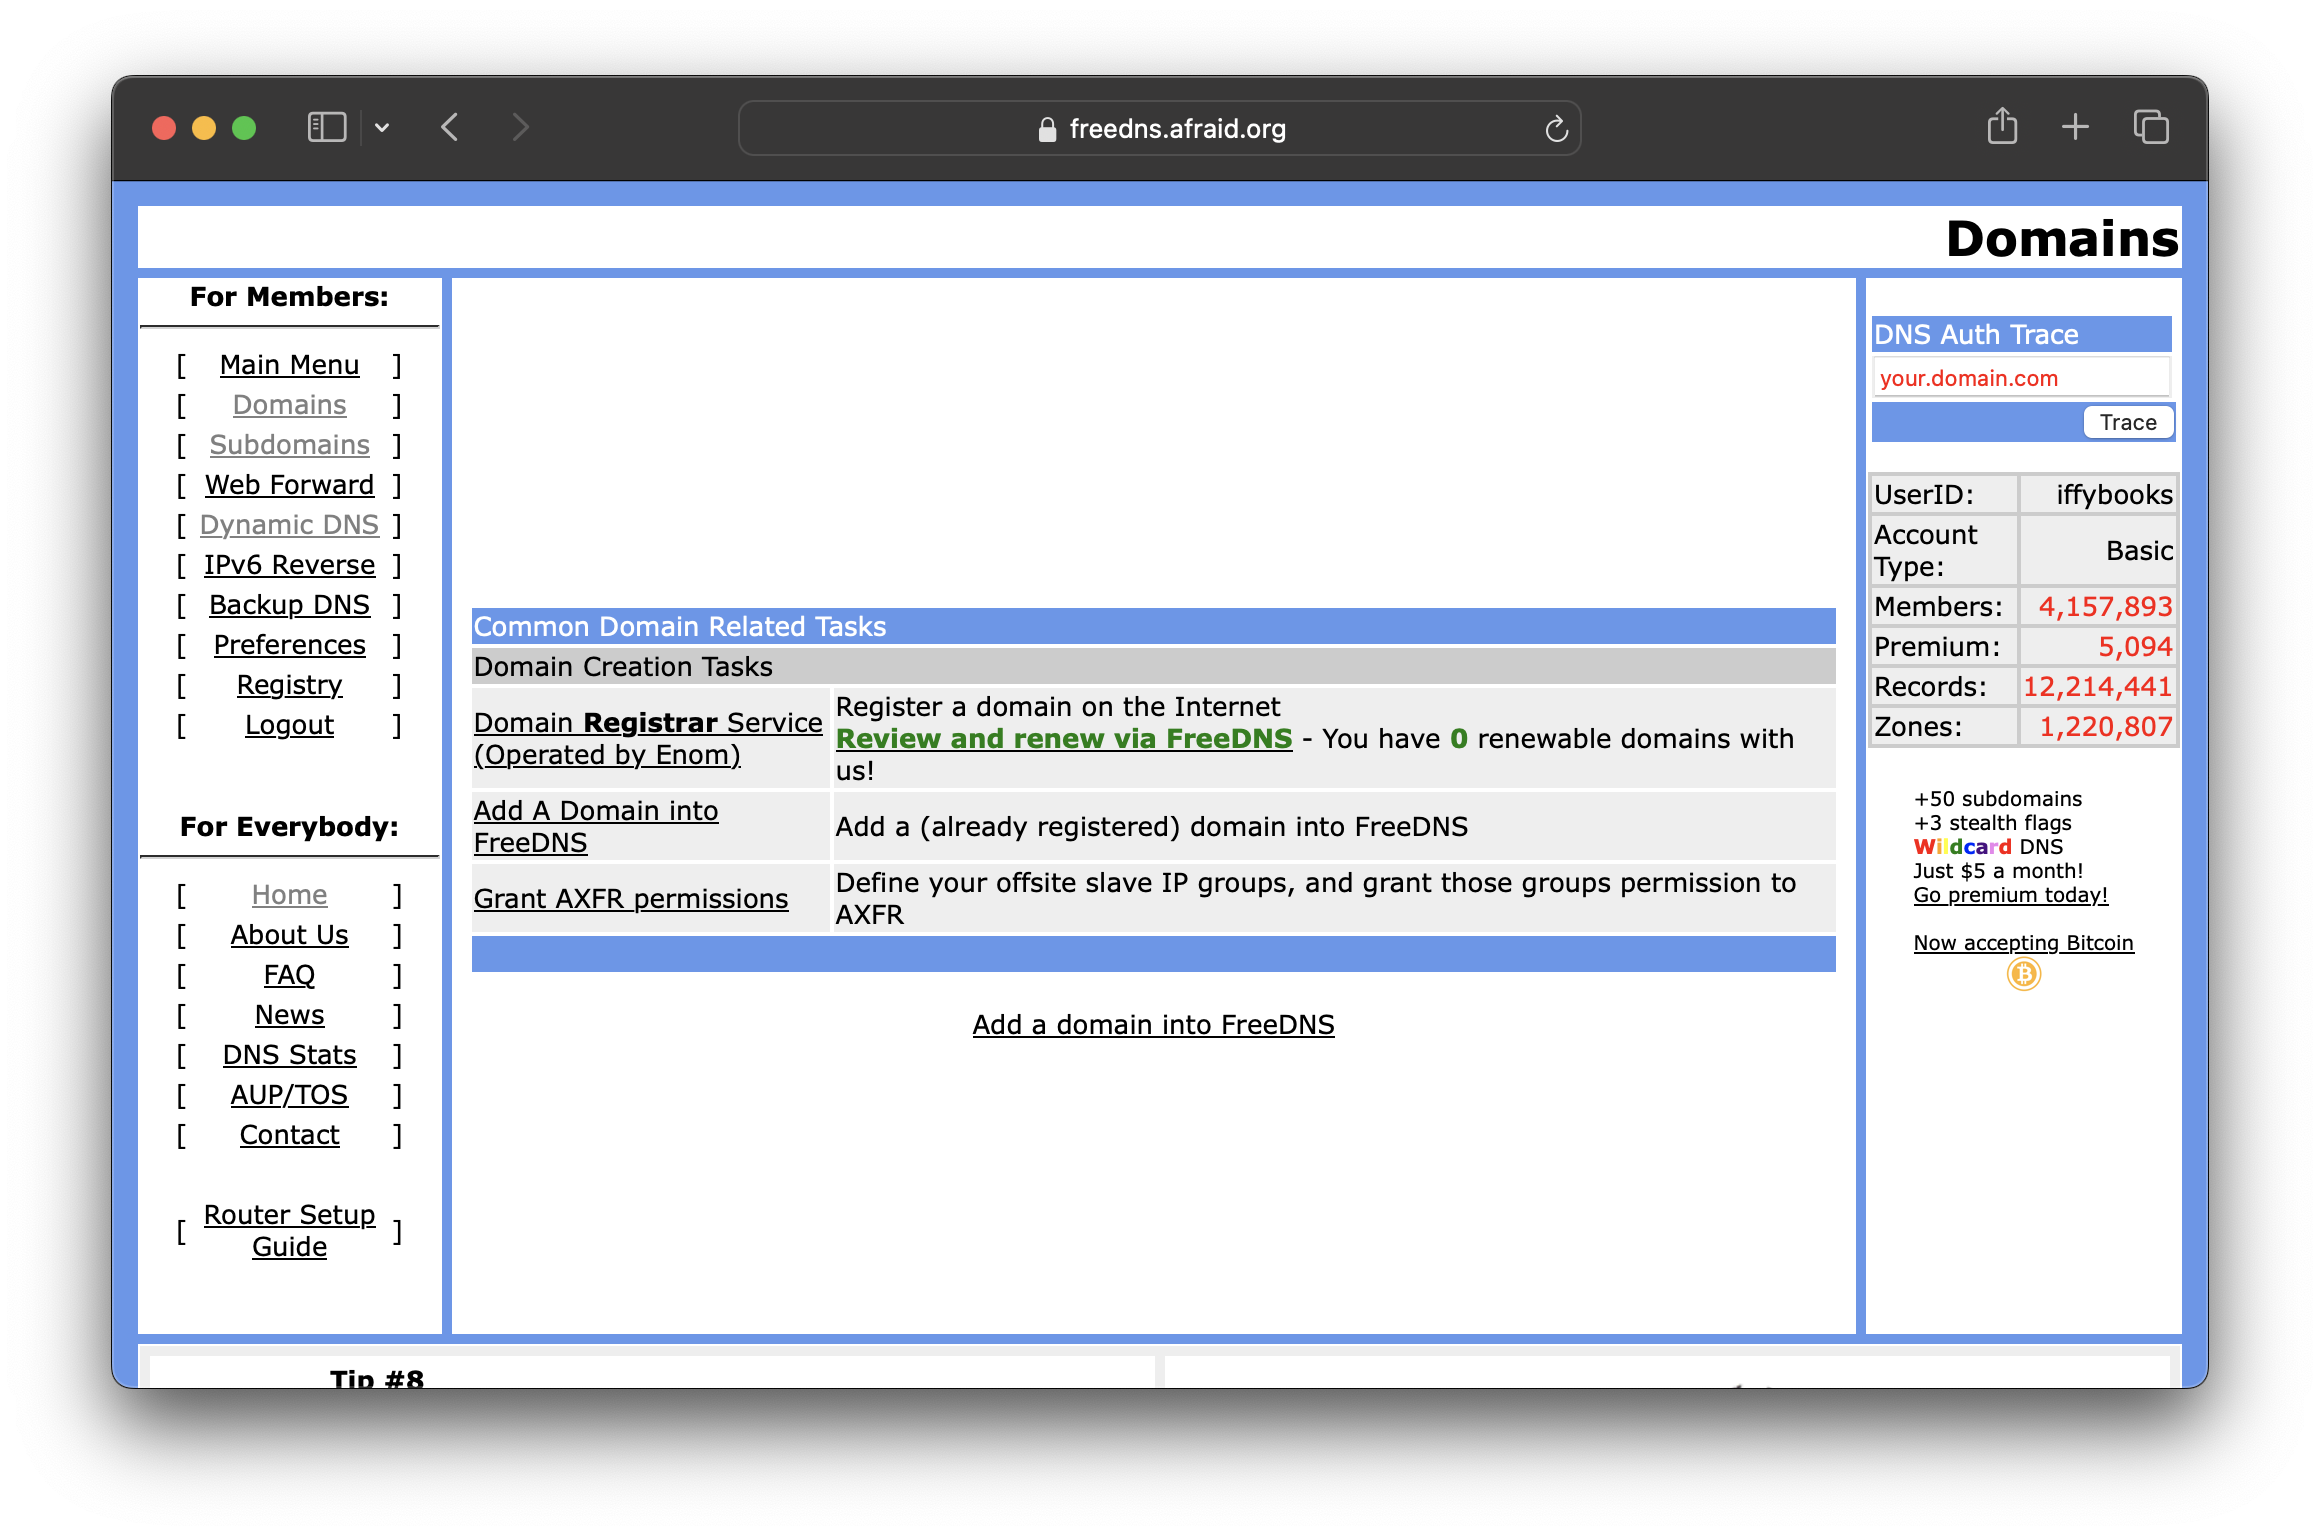
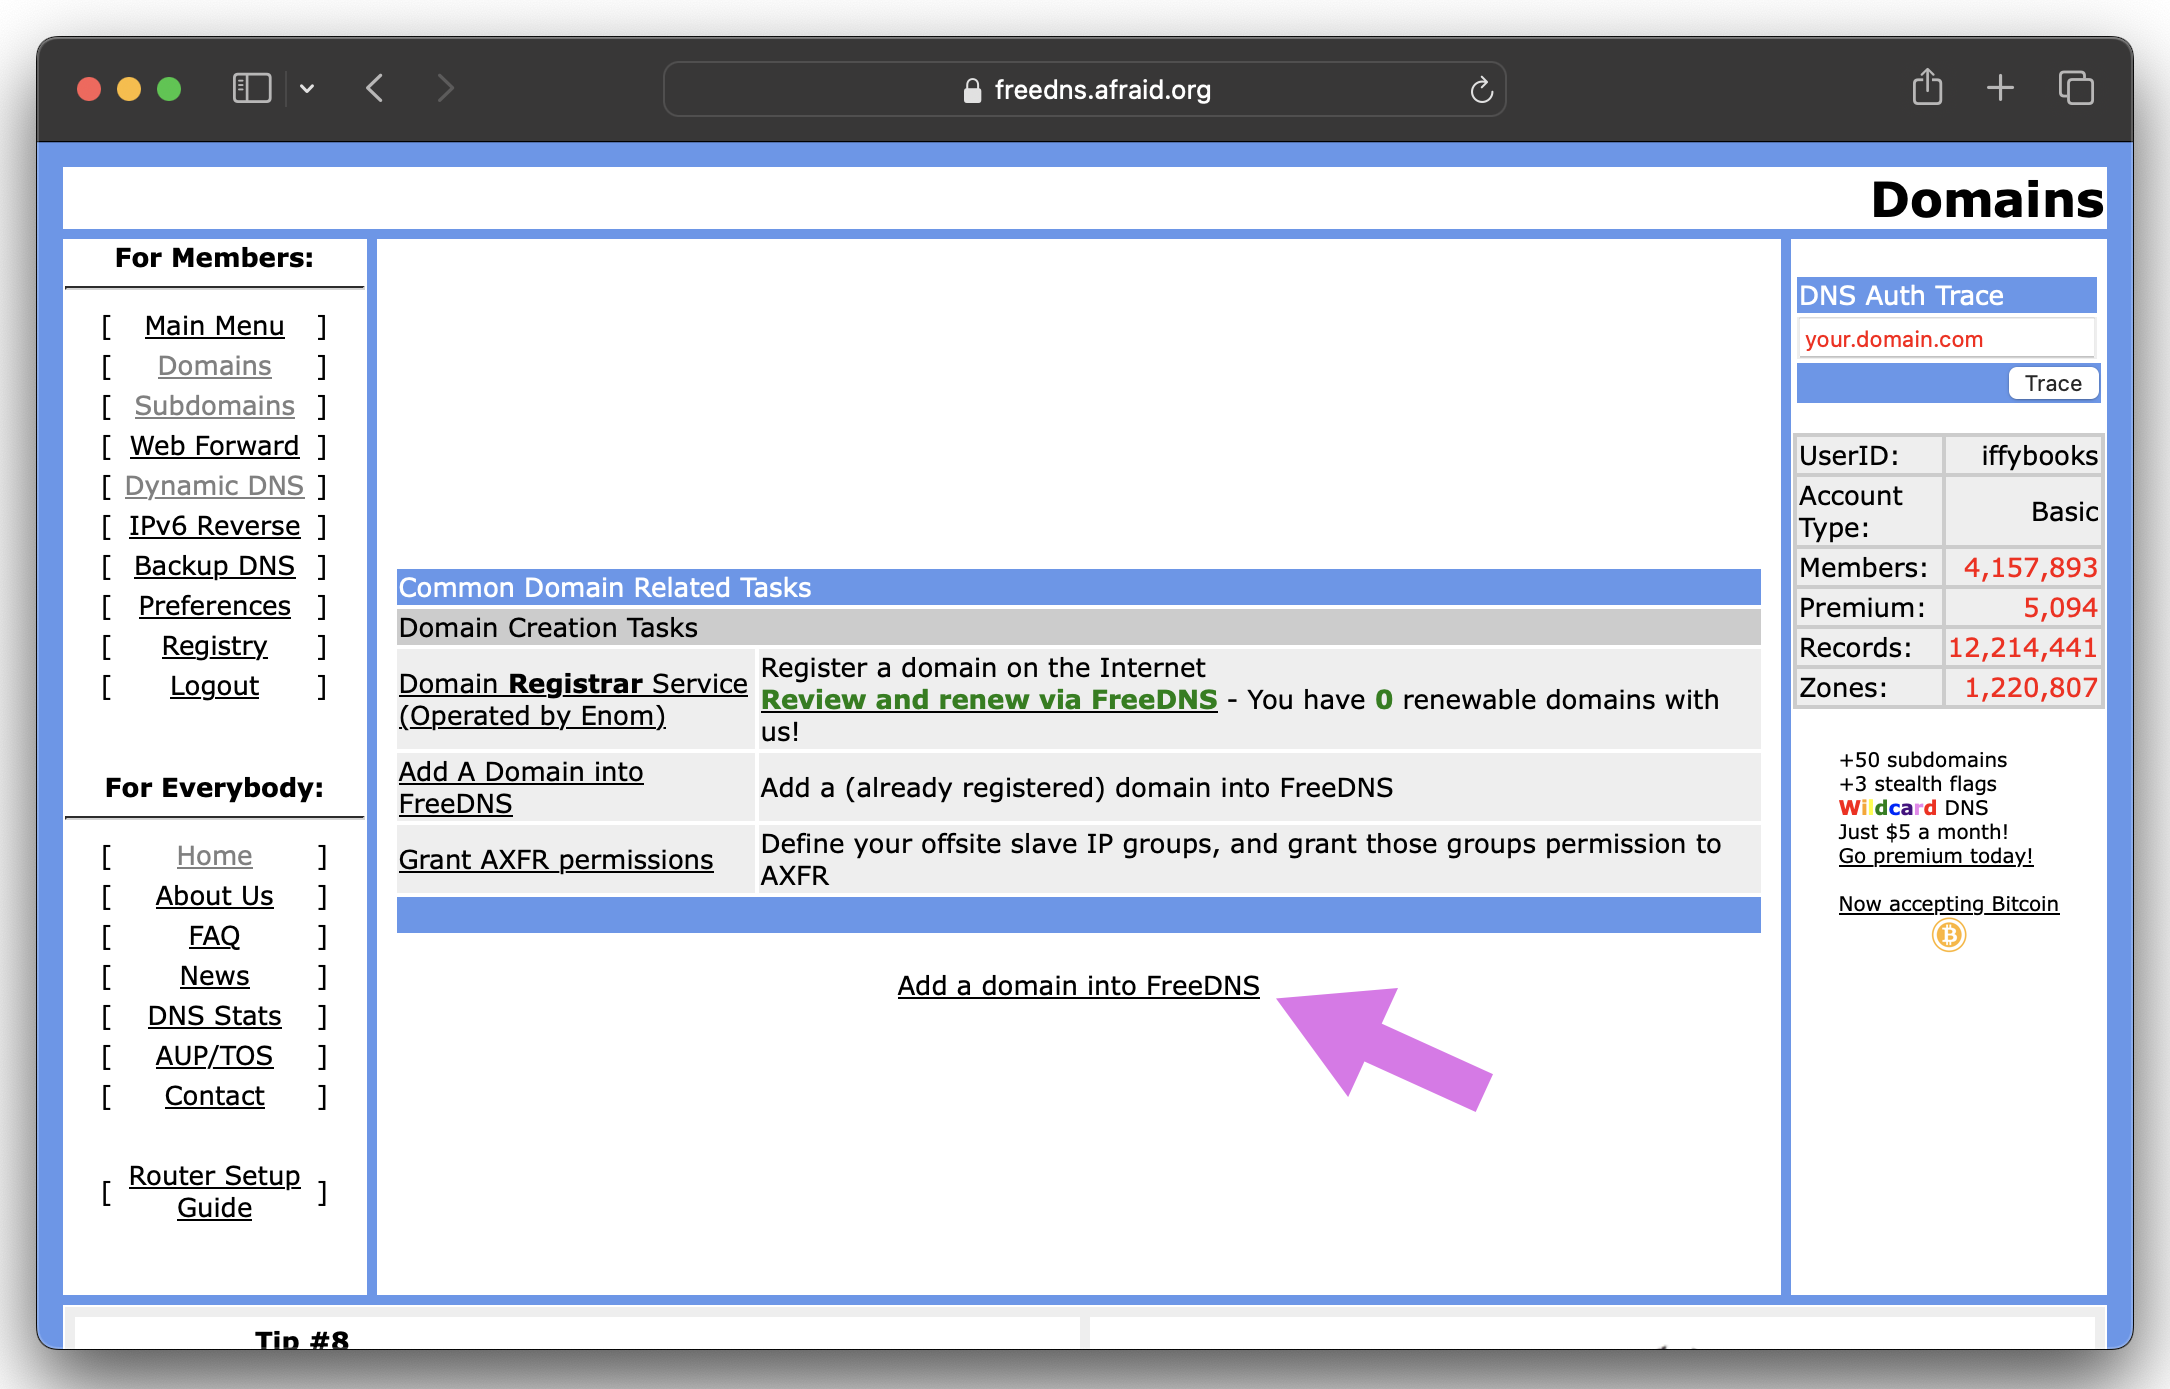
more writing & image tweaks

diff --git a/README.md b/README.md
@@ -50,7 +50,7 @@ Each subdomain string can be up to 63 characters long (case insensitive).
 
 ![](images/2024-05-18-02-38-37-image.png)
 
-# Flash Ubuntu to your SD card
+# ▶ Flash Ubuntu to your SD card
 
 ❏ Next you'll download the **Ubuntu Server** operating system image for your device. If you're using an Orange Pi Zero 2W, go to the following URL:
 
@@ -96,9 +96,9 @@ That link will take you to a directory on Google Drive. (The folks at Orange Pi 
 
 ❏ Click **Flash!** to write the Ubuntu disk image to your microSD card, which will take 5 minutes or so.
 
-# Set up your computer
+# ▶ Set up your hardware
 
-❏ Insert your newly flashed micro SD card into the card slot on your single-board computer.
+❏ Insert your microSD card into the card slot on your single-board computer. The printed side of the microSD card should be facing out.
 
 <img src="images/efdc00e9e93d873ee1697127995f147dd3b5a46b.jpg" title="" alt="01_IMG_4115.jpg" width="257">
 
@@ -108,9 +108,7 @@ That link will take you to a directory on Google Drive. (The folks at Orange Pi 
 
 <img src="images/e4056d689b4e0cda8e4bdd69d75490dd01e07841.jpg" title="" alt="04_IMG_4128.jpg" width="348">
 
-<img src="images/3b560993806c4ab8c9881d57b5ed2c53e6d28a19.jpg" title="" alt="05_IMG_4109.jpg" width="345">
-
-# Turn on your computer
+# ▶ Turn on your computer
 
 ❏ Plug a USB-C cable into your computer and connect it to a USB power supply (2 amps or more).
 
@@ -142,7 +140,7 @@ That link will take you to a directory on Google Drive. (The folks at Orange Pi 
 
 <img title="" src="images/vlcsnap-2024-05-04-22h42m26s544_border.png" alt="" width="468">
 
-## Increase the onscreen text size (optional)
+# ▶ Increase the onscreen text size (optional)
 
 If the onscreen text looks too small to read comfortably, follow the steps below to increase the size. Otherwise you can skip to the next step.
 
@@ -180,11 +178,13 @@ sudo nano /etc/default/console-setup
 
 When your computer finishes rebooting, the font will be bigger.
 
-# Connect to the internet via Ethernet
+# ▶ Connect to the internet via Ethernet
 
 *We strongly recommend connecting your single-board computer to your home router using an Ethernet cable. If you need to use wi-fi temporarily, you can skip to the next section.*
 
 ❏ Plug USB end of the Ethernet-to-USB adapter into the open USB port on your single-board computer. 
+
+![3b560993806c4ab8c9881d57b5ed2c53e6d28a19.jpg](images/6f4d29de1333a40237f4c18825a1a97ae4e062a6.jpg)
 
 ❏ Connect an Ethernet cable to the Ethernet-to-USB adapter.
 
@@ -209,7 +209,7 @@ If you get output that looks like this, then you're connected to the internet:
 
 Press **ctrl + C** to close `ping` and return to the command prompt.
 
-# Connect to the internet via wi-fi (discouraged! 🙃)
+# ▶ Connect to the internet via wi-fi (discouraged! 🙃)
 
 *Hosting a website via wi-fi isn't recommended, because maintaining a steady long-term connection is too much of a headache. If you want to keep using wi-fi because Ethernet isn't an option at the moment, here's how to set it up.*
 
@@ -249,7 +249,7 @@ Press **ctrl + C** to close `ping` and return to the command prompt.
 
 <img src="images/vlcsnap-2024-05-04-18h14m47s352.png" />
 
-# Update your system software
+# ▶ Update your software
 
 ❏ Now that you're connected to the internet, you'll want to update your software packages. This step is important because some packages may need updates for security reasons.
 
@@ -265,7 +265,7 @@ sudo apt update && sudo apt-y upgrade
 
 <img src="images/vlcsnap-2024-05-04-18h15m32s775_border.png" />&nbsp;
 
-# Update your hostname
+# ▶ Update your hostname
 
 Your **hostname** is a short alphanumeric name for each device on a network, sort of like a nickname. Setting a descriptive hostname will make it easier to tell which device is which (for example, when using your router admin panel). 
 
@@ -281,7 +281,7 @@ hostnamectl set-hostname Zine-Gallery
 
 <img src="images/vlcsnap-2024-05-04-18h18m33s779_border.png" />
 
-# Set up a firewall
+# ▶ Set up a firewall
 
 A firewall is a piece of software that restricts access to your device over the network. In this section you'll install and configure the firewall `ufw`, which will permit or deny each network request (inbound and outbound).
 
@@ -325,7 +325,7 @@ sudo ufw allow 22/tcp
 
 ![](images/vlcsnap-2024-05-06-19h10m33s671_border.png)
 
-# Install Apache
+# ▶ Install Apache HTTP Server
 
 Next you'll install Apache HTTP Server, one of the most widely used web server programs. *(Note: The term "web server" can refer to a piece of software that serves websites, like Apache. "Web server" can also refer to the computer the software is running on.)*
 
@@ -398,7 +398,7 @@ sudo nano index.html
 
 ❏ When you're ready to save your file, press **ctrl+X** to exit. Follow the prompts at the bottom of the screen to save the file.
 
-# Create Apache configuration file
+# ▶ Create Apache configuration file
 
 ❏ Run the command below to change your current working directory to `/etc/apache2/sites-available`.
 
@@ -445,7 +445,7 @@ ServerAlias localhost
 
 <img src="images/vlcsnap-2024-05-04-18h25m02s853_border.png" />
 
-# Enable your website
+# ▶ Enable your website
 
 ❏ Run the following command to have Apache enable your website:
 
@@ -471,7 +471,7 @@ systemctl reload apache2
 
 <img src="images/vlcsnap-2024-05-04-18h26m15s464_border.png" />
 
-# Set up ports.conf
+# ▶ Set up ports.conf
 
 ❏ Run the command `cd /etc/apache2/` to change your curent working directory to `/etc/apache2/`. Then use `ls` to view the directory's contents.
 
@@ -493,19 +493,19 @@ Listen 0.0.0.0:80
 
 <img src="images/vlcsnap-2024-05-04-18h29m08s844_border.png" />
 
-# Find your IP address
+# ▶ Find your IP address
 
 ❏ Run the command `ip addr` to find your IP address on the local network. Look for a line beginning with `inet 192.168.`, which will be under `eth0` if you're using ethernet or `wlan0` if you're using wi-fi. In the example below, the server's local IP address is `192.168.1.44`.
 
 ![](images/vlcsnap-2024-05-04-18h29m22s232_border.png)
 
-# Test your site on the local network
+# ▶ Test your site on the local network
 
 ❏ On a computer connected to the same network as your server, open a web browser, type the server's IP address in the address bar, and press enter. You should see your test website!
 
 ![Screenshot 2024-05-04 at 15.33.35.png](images/Screenshot%202024-05-04%20at%2015.33.35.png)
 
-# Set a static IP address
+# ▶ Set a static IP address
 
 ❏ Ordinarily, when you connect a computer to a network it's assigned a local IP address by a DHCP server program running on the router. Every time you connect to the network your machine will be given an arbitrary address that isn't already taken, typically beginning with `192.168`.
 
@@ -543,7 +543,7 @@ Run the command `sudo orangepi-config` to launch the Orange Pi configuration uti
 
 <img title="" src="images/vlcsnap-2024-05-04-18h34m49s645.png" alt="" width="468">
 
-# Enable local SSH access
+# ▶ Enable local SSH access
 
 ❏ Run the command `so orangepi-config` to open the Orange Pi configuration utility.
 
@@ -573,11 +573,11 @@ Run the command `sudo orangepi-config` to launch the Orange Pi configuration uti
 
 # ![](images/vlcsnap-2024-05-04-18h40m13s233_border.png)
 
-# Reboot
+# ▶ Reboot
 
 abcde ...
 
-# Test your SSH connection
+# ▶ Test your SSH connection
 
 From a terminal window on your desktop computer, run the following command to start an **ssh** session with your server.
 
@@ -587,7 +587,7 @@ ssh orangepi@192.168.1.44
 
 When you're done, you can use the command `exit` to end the ssh session.
 
-# Update your website from another computer using scp
+# ▶ Update your website from another computer using scp
 
 ![Screenshot 2024-05-04 at 15.55.57.png](images/Screenshot 2024-05-04 at 15.55.57.png)
 
@@ -597,7 +597,7 @@ When you're done, you can use the command `exit` to end the ssh session.
 
 ![Screenshot 2024-05-04 at 15.57.08.png](images/Screenshot 2024-05-04 at 15.57.08.png)
 
-# Set up port forwarding on your router
+# ▶ Set up port forwarding on your router
 
 ❏ Open a web browser on a desktop computer and enter the IP address for your router's admin panel. There's a good chance the IP address is `192.168.1.1`. Press enter, then log in with your admin password.
 
@@ -621,7 +621,7 @@ If your ISP is V\*\*\*\*\*\*\*, you'll need to click **Advanced** at the top of 
 
 ❏ Copy and paste your home IP address into your URL bar and press enter, and you should see your website.
 
-# Set up DDNS for your own domain or subdomain
+# ▶ Set up DDNS for your domain or subdomain
 
 *Note: If you created a subdomain through dynv6 at the beginning of the project, you can skip this step.*
 
@@ -641,7 +641,7 @@ If your ISP is V\*\*\*\*\*\*\*, you'll need to click **Advanced** at the top of 
 
 ![](images/2024-05-18-02-42-52-image.png)
 
-❏ Click Add a domain into FreeDNS    
+❏ Click **Add a domain into FreeDNS**.   
 
 ![](images/2024-05-18-02-44-37-image.png)❏
 
@@ -668,7 +668,7 @@ Create a new **NS** (name server) record for the domain or subdomain you're usin
 
 <img title="" src="images/2024-05-18-02-50-20-image.png" alt="" data-align="left">
 
-# Install ddclient
+# ▶ Install ddclient
 
 ❏ On your single-board computer, run the command below to install `ddclient`. Type `y` at the propmpt and press enter to confirm.
 
